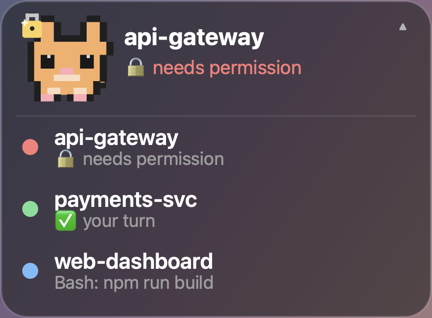
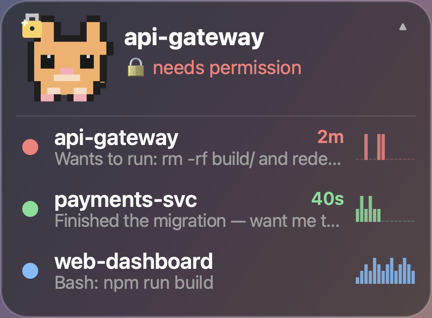
docs + v1.2.0: refresh media for the session-story features
- Regenerated the widget close-ups, floating shots, and demo GIF so the
  session tabs show the transcript "story", the elapsed timer, and the
  activity sparkline (matching the shipped widget).
- README "what it does" now calls out story / timer / sparkline.
- Bump version to 1.2.0.

diff --git a/README.md b/README.md
@@ -60,6 +60,12 @@ you. Glance across the room and know if a session is blocked, without unlocking.
   dot (🔴 needs permission · 🟢 your turn · 🔵 working · ⚪ idle), its name, and
   status. Click a tab to jump straight to that session's terminal tab. Click
   the pet again to collapse.
+- **Each tab tells the story**, not just the state:
+  - a **transcript peek** of what a session is actually doing or asking
+    ("Finished the migration — want me to run the tests?") when it needs you,
+  - an **elapsed timer** ("needs permission · 4m"), with a stronger pulse and a
+    re-nudge when a session's been blocked too long,
+  - and a tiny **activity sparkline** so busy-vs-idle is obvious at a glance.
 - **Alerts** when a session finishes or needs permission: a colored ring
   ripples out from the pet, its row pulses with a matching glow (green = done,
   red = needs permission), and a sound plays — all in Rocky itself, no macOS